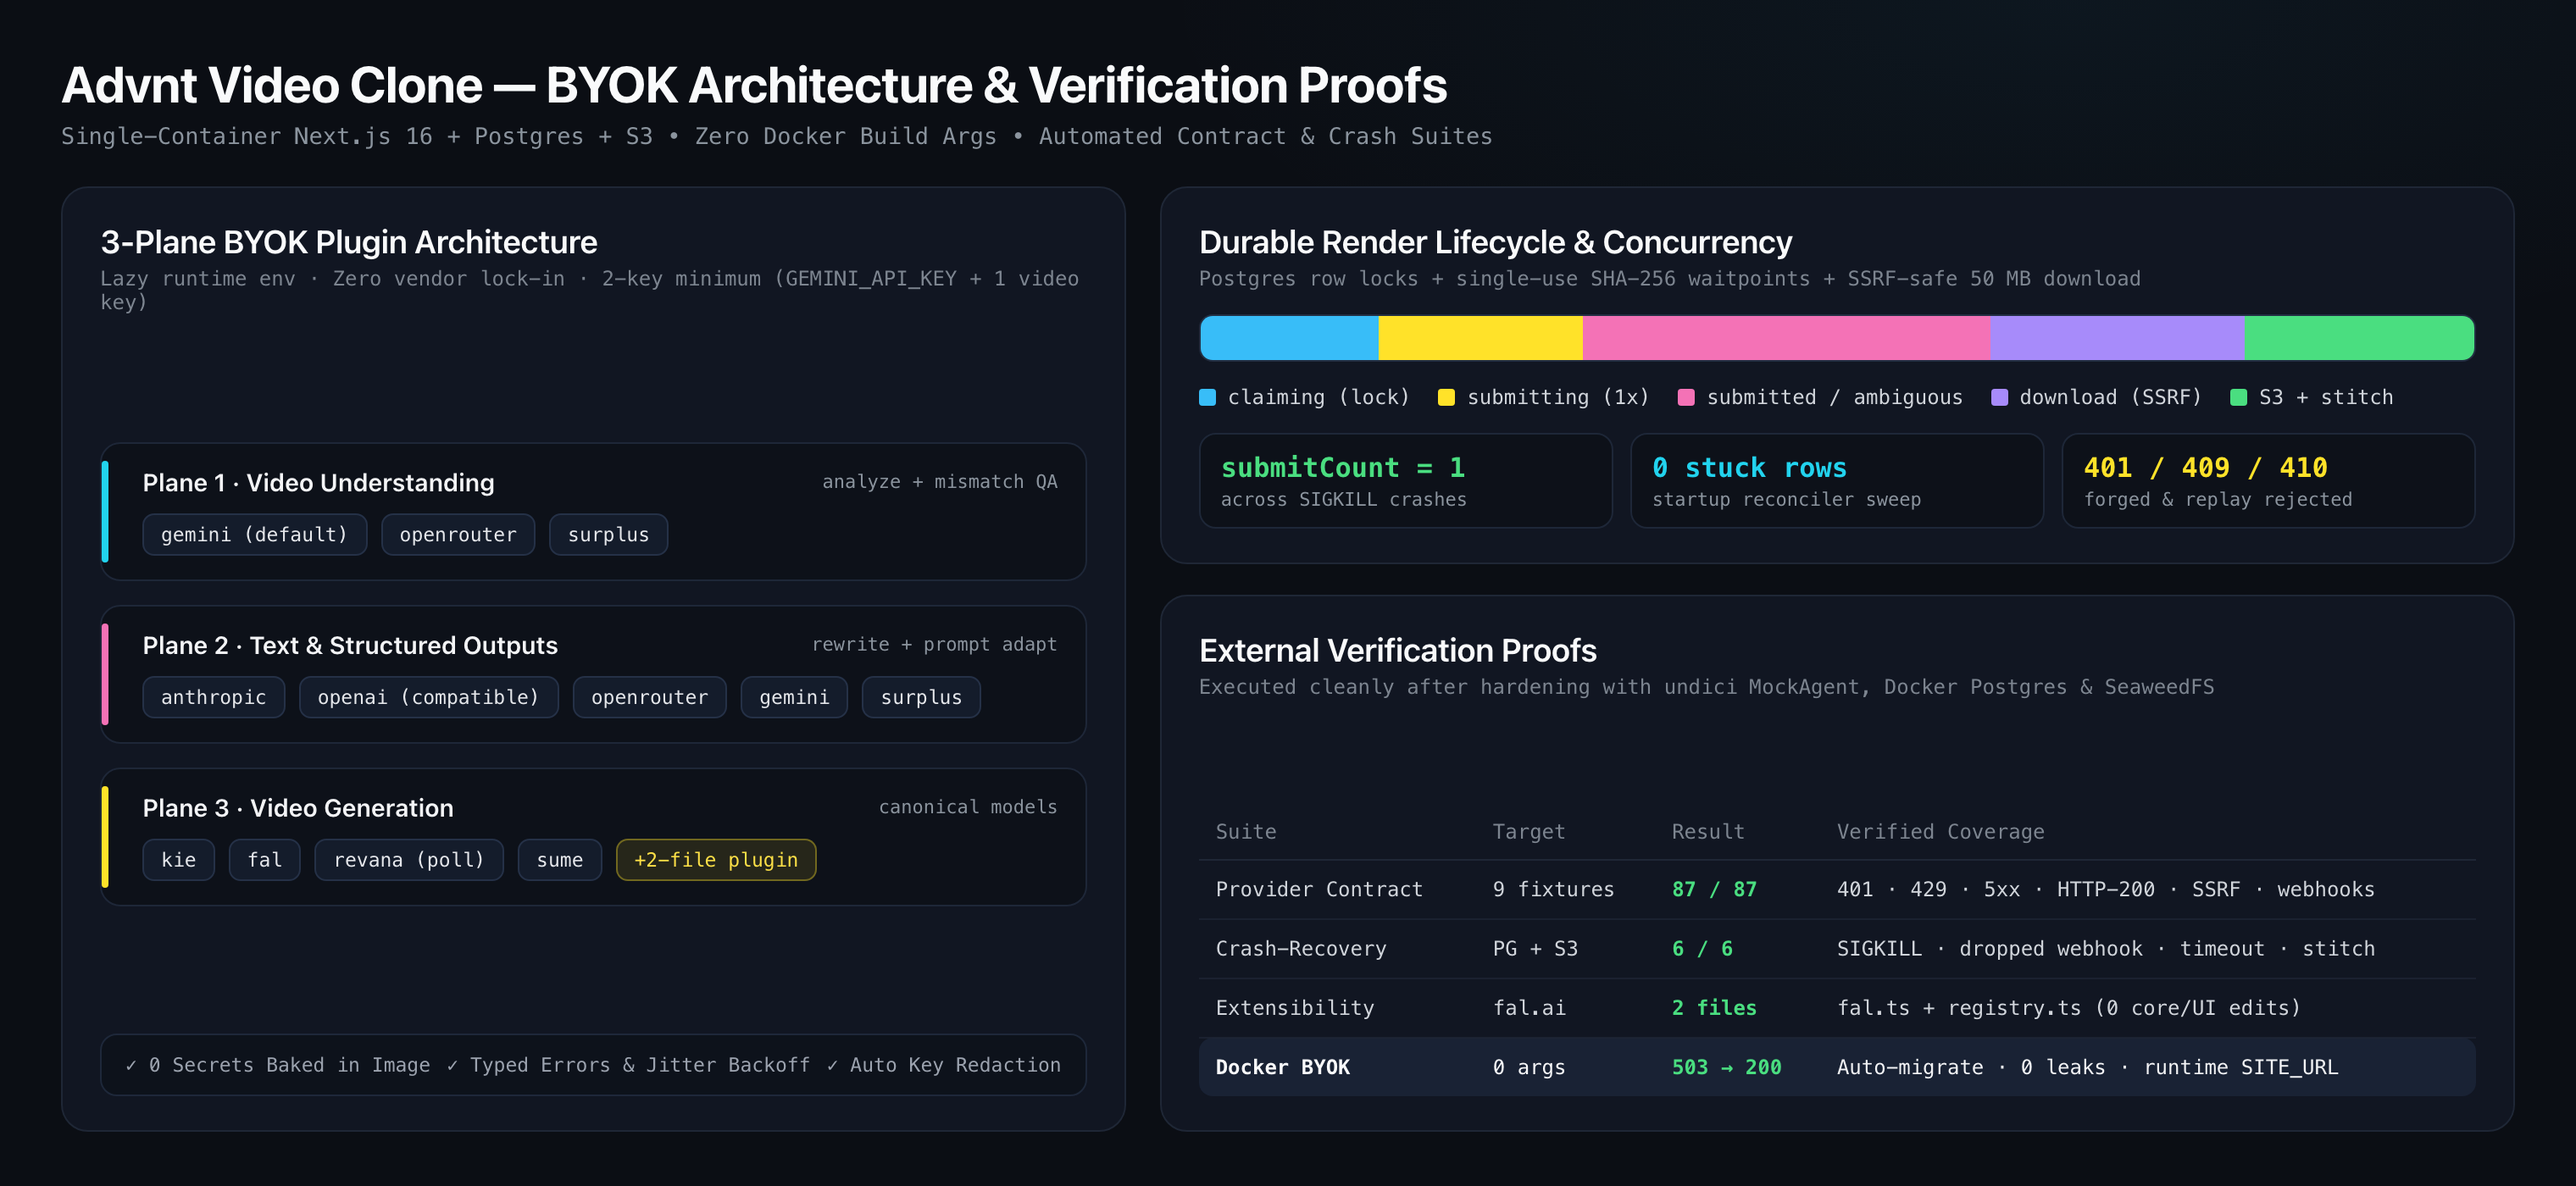
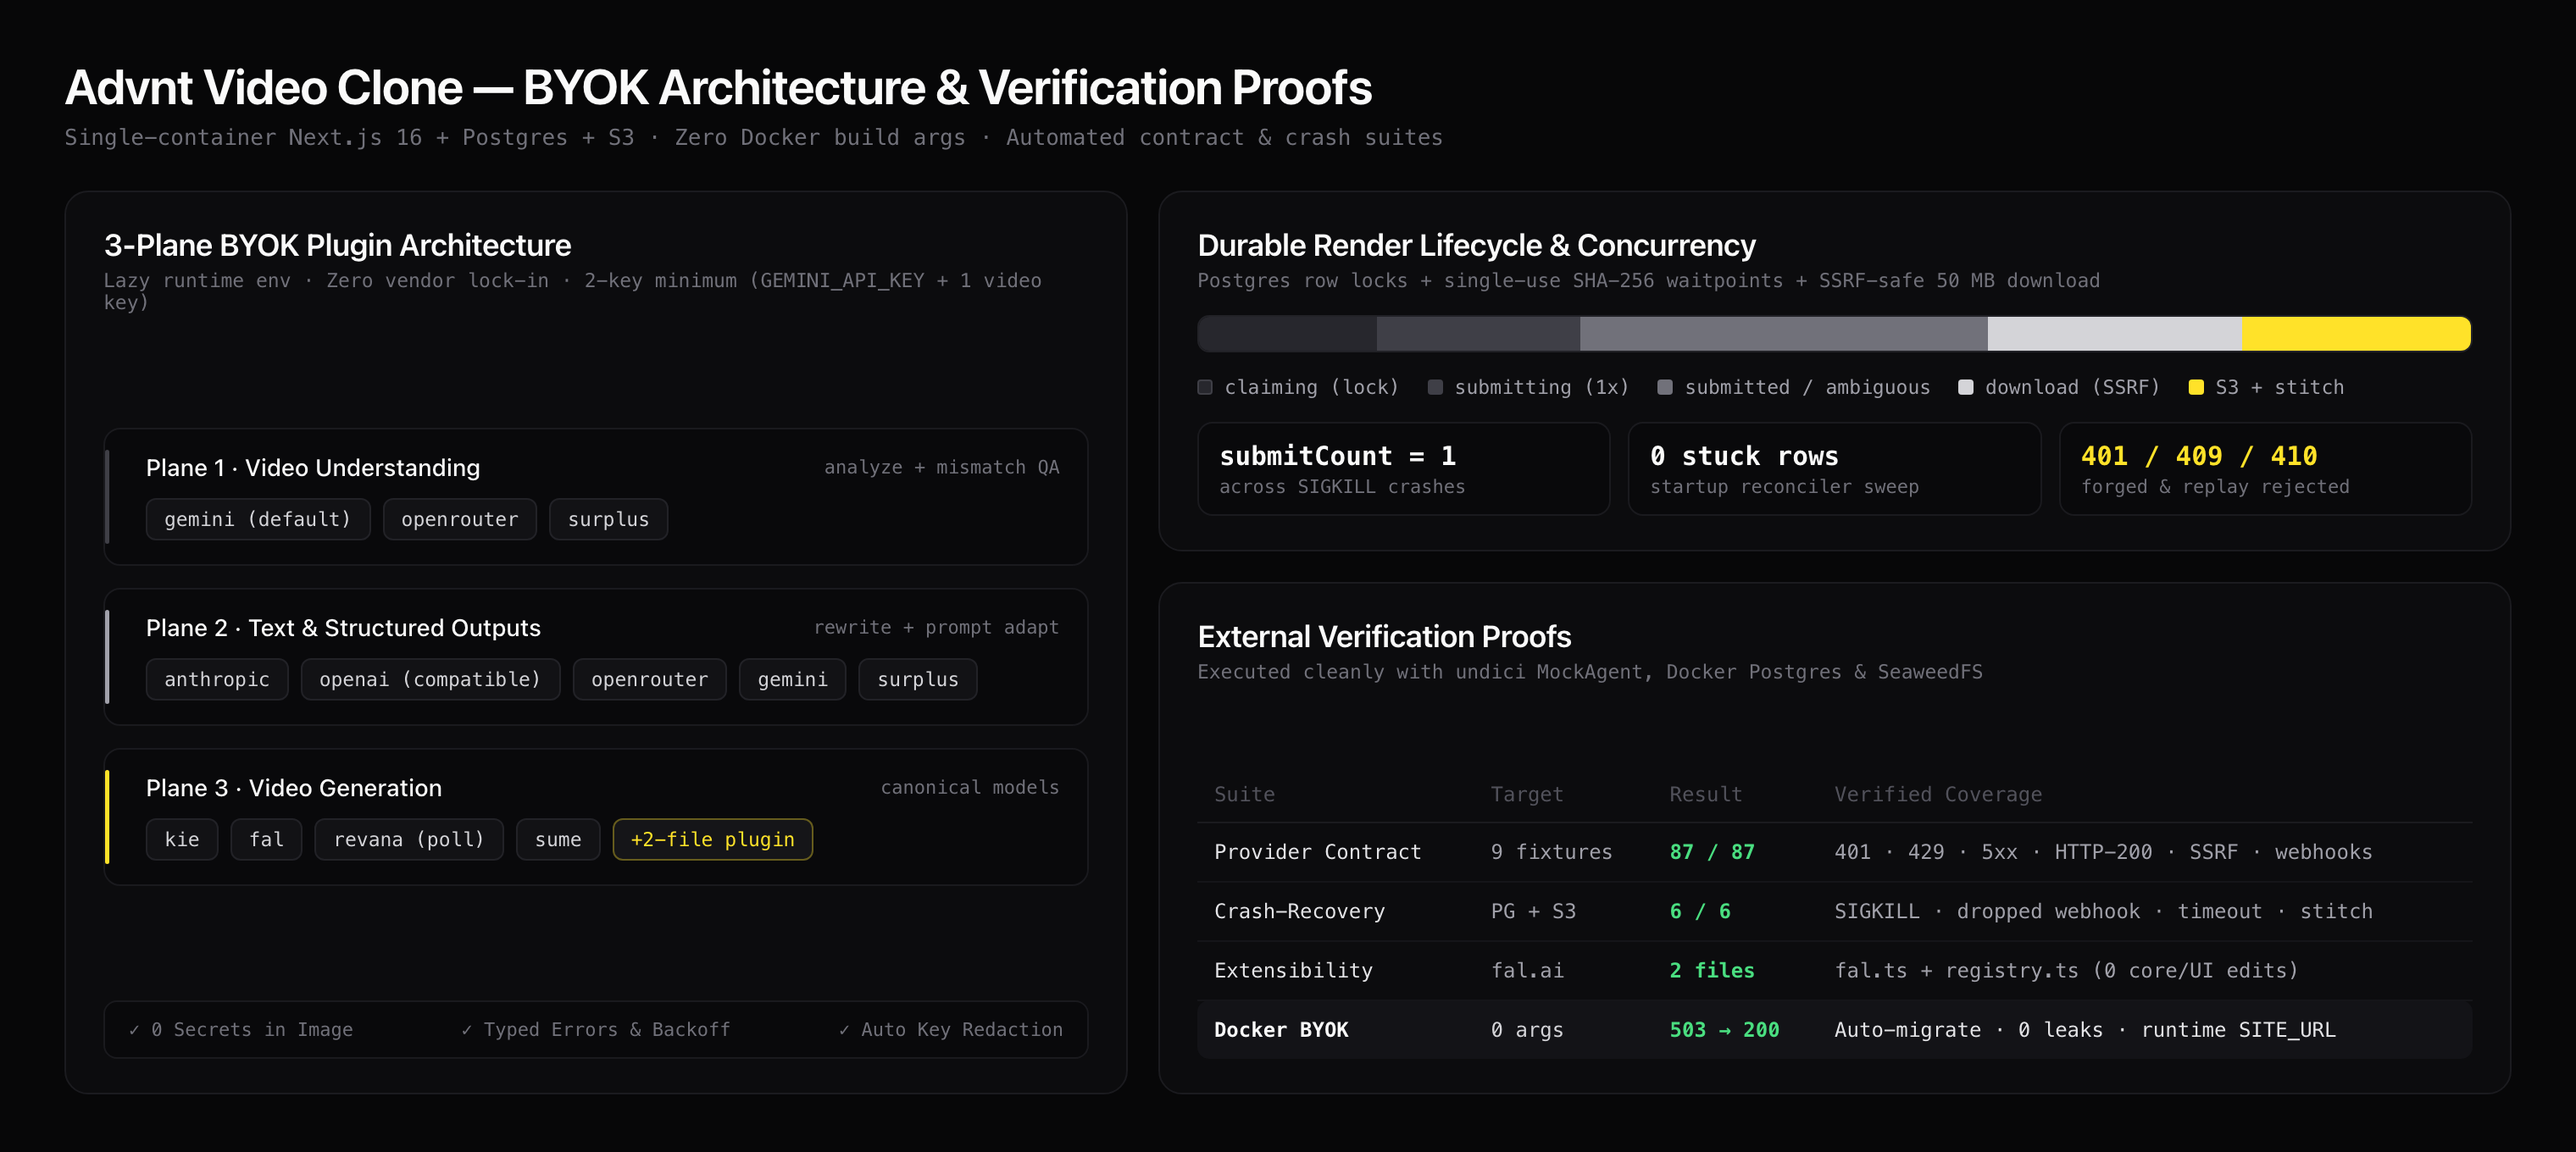
docs: refine README visuals and badges to dark minimalistic style

diff --git a/README.md b/README.md
@@ -1,11 +1,11 @@
 # Advnt Video Clone
 
-[![GitHub Repo](https://img.shields.io/badge/GitHub-arthuryeti%2Fadvnt--clone--tool-181717?style=flat-square&logo=github)](https://github.com/arthuryeti/advnt-clone-tool)
-[![Next.js 16](https://img.shields.io/badge/Next.js_16-Node_24%2B-000000?style=flat-square&logo=next.js)](https://nextjs.org/)
-[![Runtime: Postgres + S3](https://img.shields.io/badge/runtime-Postgres_%2B_S3_%2B_ffmpeg-336791?style=flat-square)](docker-compose.yml)
-[![BYOK: 9 Provider Adapters](https://img.shields.io/badge/BYOK-9_AI_Adapters-22d3ee?style=flat-square)](#bring-your-own-keys-byok)
-[![Verified: 87 Contract + 6 Crash](https://img.shields.io/badge/tests-87_contract_%2B_6_crash-22c55e?style=flat-square)](#architecture--verification)
-[![License: MIT](https://img.shields.io/badge/license-MIT-22c55e?style=flat-square)](LICENSE)
+[![GitHub Repo](https://img.shields.io/badge/GitHub-arthuryeti%2Fadvnt--clone--tool-18181B?style=flat-square&logo=github&logoColor=fafafa&labelColor=09090B)](https://github.com/arthuryeti/advnt-clone-tool)
+[![Next.js 16](https://img.shields.io/badge/Next.js_16-Node_24%2B-18181B?style=flat-square&logo=next.js&logoColor=fafafa&labelColor=09090B)](https://nextjs.org/)
+[![Runtime: Postgres + S3](https://img.shields.io/badge/runtime-Postgres_%2B_S3_%2B_ffmpeg-18181B?style=flat-square&labelColor=09090B)](docker-compose.yml)
+[![BYOK: 9 Provider Adapters](https://img.shields.io/badge/BYOK-9_AI_Adapters-18181B?style=flat-square&labelColor=09090B)](#bring-your-own-keys-byok)
+[![Verified: 87 Contract + 6 Crash](https://img.shields.io/badge/tests-87_contract_%2B_6_crash-18181B?style=flat-square&labelColor=09090B)](#architecture--verification)
+[![License: MIT](https://img.shields.io/badge/license-MIT-18181B?style=flat-square&labelColor=09090B)](LICENSE)
 
 **Self-hostable, BYOK AI video cloning studio in a single container.** Paste a TikTok or Instagram URL (or upload an MP4) to split a reference video into timed shots and takes, recast who plays who with your own faces and product photos, rewrite the script or visual look in plain English, render takes across pluggable AI video generators, and export a stitched vertical cut.
 
